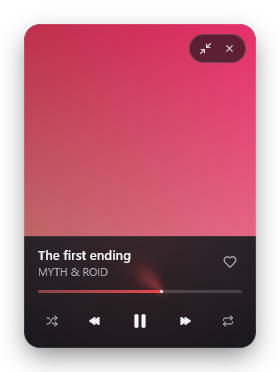
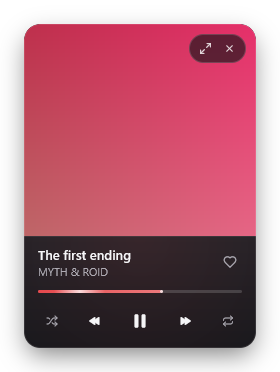
docs: showcase Apple Music Mini Player & 6 synced progress bar effects in README

Changed region(s): [[0.1429, 0.7097, 0.6, 0.7984], [0.7143, 0.1183, 0.7429, 0.1478]]

diff --git a/README.md b/README.md
@@ -8,7 +8,7 @@
 
 <p align="center">
   基于 <b>Go + MyGo</b> 打造的原生 Spotify 桌面客户端与个人音乐云盘播放器（源于 <a href="https://github.com/margbug01/MySpotify">MySpotify</a>）<br>
-  支持 <b>6 大网盘音乐云盘 · 双语逐字动效歌词 · 可拖动灵动岛 · 液态玻璃双形态迷你播放器 · 流光背景 · Windows &amp; macOS 双端开箱即用</b>
+  支持 <b>6 大网盘音乐云盘 · 双语逐字动效歌词 · 可拖动灵动岛 · Apple Music 风格迷你播放器 · 6 种动效进度条 · 流光背景 · Windows &amp; macOS 双端开箱即用</b>
 </p>
 
 <p align="center">
@@ -30,7 +30,8 @@
 - **✨ 流光背景 & 液态玻璃**：Apple Music 风格 GPU 流体网格背景（Flow）与 iOS 风格液态玻璃（Liquid Glass）质感，支持强度滑块连续调节。
 - **🎤 逐字双语动效歌词**：纯 Go 原生多源歌词引擎（网易云 + QQ 音乐 QRC 解密 + LRCLIB），原句与译文同步逐字弹跳/扫光，支持间奏保留上一句与呼吸倒计时点。
 - **🏝 跨屏灵动岛 & 点击穿透桌面歌词**：自由拖动跨显示器、贴顶/悬浮胶囊自动切换、锁定点击穿透后移入/轻点即可浮出「解锁」按钮。
-- **🎛 Apple Music 风格迷你播放器（双形态 + 同步深浅外观）**：支持 **紧凑长条**（平时极简显示歌名与烟雾进度条，悬停原地切换播控）与 **分体封面卡片**（上图完整展示封面且全区可拖动、下文独立控栏含红心喜欢与播控），主窗口右上角标题栏一键从大窗切入迷你模式、小窗 `⤢` 一键返回主窗口，自动同步应用浅色/黑夜外观。
+- **🎛 Apple Music 风格迷你播放器（双形态 + 同步深浅外观）**：支持 **紧凑长条**（平时极简显示歌名与动效进度条，悬停原地切换播控）与 **分体封面卡片**（上图完整展示圆角封面且全区可拖动、下文独立控栏含红心喜欢与播控），窗口右上角原生风格按钮一键从大窗直切迷你模式、小窗 `⤢` 一键返回主窗口，自动同步应用浅色/黑夜外观。
+- **🌈 6 种全局同步进度条特效**：内置 **极光扫光（默认）、律动声波、呼吸光珠、星尘光点、彗星烟雾、经典极简** 6 种高颜值进度条样式，点击底栏 ✨「进度条样式」按钮、右键进度条/小窗或在设置中一键切换，主界面底栏、播放页与迷你播放器实时同步，黑白封面也能保持通透鲜亮。
 - **🎵 无边框音符飘落开机动画**：冷启动时在透明桌面上直接飘落矢量音符，无白底成形 Sonora 音符后丝滑渐显主页；支持设置内一键开关并自动遵循系统「减少动态效果」。
 - **🎨 统一歌曲封面与吸顶胶囊搜索**：全站歌单、我喜欢的音乐、最近播放与本地/云盘库统一支持专辑封面（可在设置中一键开关），支持简繁匹配、空格多词筛选、点喜欢/加歌单秒级原地更新与排序一致播放。
 
@@ -121,16 +122,24 @@
 
 ---
 
-## 5. Apple Music 风格迷你播放器（双形态 + 同步黑夜模式）& 音符飘落开机动画
+## 5. Apple Music 风格迷你播放器、6 种动效进度条 & 开机动画
 
-- **主窗口 ↔ 迷你模式一键直切**：点击主窗口右上角窗口栏的 **切换迷你模式** 图标，直接将大窗口收起并切换为悬浮迷你小窗；点击小窗右上角 `⤢` 即可无缝返回主窗口。支持 **紧凑长条**（`360 × 56`，平时极简居中显示歌名、歌手与极细烟雾进度条，悬停原地平滑切出 5 键播控）与 **分体封面卡片**（`232 × 324` 上图下文分体布局，上方完整展示圆角封面且整片封面均可直接拖动，下方独立控栏集成红心喜欢、可拖动进度条与播控键），右键小窗或在设置中随时切换两种形态。
-- **同步深浅外观 + 6 种可切换进度条特效**：自动与 Sonora 主窗口的浅色 / 黑夜模式保持同步；内置 **极光扫光 / 律动声波 / 呼吸光珠 / 星尘光点 / 彗星烟雾 / 经典极简** 共 6 种进度条样式，点击主界面底栏 ✨「进度条样式」按钮、迷你播放器右键菜单或设置页即可实时切换，主界面底栏、播放页与迷你播放器全局同步，并自动记忆桌面拖动位置。
+- **主窗口 ↔ 迷你模式一键直切**：点击主窗口与全屏播放页右上角（Windows 原生对齐最小化/最大化/关闭按钮左侧）的 **切换迷你模式** 图标，直接将大窗口收起并切入悬浮迷你小窗；点击小窗右上角 `⤢` 或封面即可无缝返回主窗口。支持 **紧凑长条**（`360 × 56`，平时居中极简显示歌名、歌手与动效进度条，悬停原地平滑切出 5 键播控）与 **分体封面卡片**（`232 × 324` 上图下文分体布局，上方完整展示圆角封面且整片封面均可直接拖动，下方独立控栏集成红心喜欢、可拖动进度条与播控键），自动同步主窗口浅色 / 黑夜外观并记忆拖动位置。
+- **6 种高颜值进度条特效（全局同步可随时切换）**：点击主界面底栏音量旁的 ✨ **「进度条样式」** 按钮、右键进度条/迷你小窗，或在 **「设置 → 外观 → 进度条样式」** 中自由切换，**主界面底栏、播放页、律动舞台与迷你播放器**实时同步生效（自动适配黑白/暗色封面，绝不发灰脏字）：
+  - **极光扫光（默认）**：柔和双色渐变轨道 + 轻盈白光流光缓缓扫过；
+  - **律动声波**：微缩音轨波形柱，当前进度头附近细柱随音乐实时律动起伏；
+  - **呼吸光珠**：双色细轨 + 末端晶莹光珠随节拍轻柔呼吸并泛出贴边微晕；
+  - **星尘光点**：进度头轻盈散出清透 2px 星尘光点并闪烁消散；
+  - 同时保留 **彗星烟雾** 与 **经典极简** 两种模式。
 - **无边框音符飘落开机动画**：冷启动不弹出突兀大白窗，直接在透明桌面上飘落矢量音符，无白底成形 Sonora 音符后平滑渐显主窗口；可在 **「设置 → 外观 → 开机动画」** 一键开关，且自动遵循系统「减少动态效果」偏好。
 
 <table>
   <tr>
     <td width="58%" align="center"><img src="docs/screenshots/mini-player-bar.png" alt="Apple Music 风格紧凑长条迷你播放器（浅色与黑夜模式）"><br><b>Apple Music 紧凑长条（浅色 / 黑夜模式）</b>：平时极简、悬停原地切播控，自动同步主应用深浅外观。</td>
-    <td width="42%" align="center"><img src="docs/screenshots/mini-player-card.png" alt="Apple Music 风格分体封面卡片迷你播放器（黑夜模式）"><br><b>分体封面卡片（黑夜模式）</b>：上方完整呈现圆角封面并支持直接拖动，下方独立控栏带红心喜欢与烟雾进度条。</td>
+    <td width="42%" align="center"><img src="docs/screenshots/mini-player-card.png" alt="Apple Music 风格分体封面卡片迷你播放器（黑夜模式）"><br><b>分体封面卡片（黑夜模式）</b>：上方完整呈现圆角封面并支持直接拖动，下方独立控栏带红心喜欢与动效进度条。</td>
+  </tr>
+  <tr>
+    <td colspan="2" align="center"><img src="docs/screenshots/progress-styles.png" alt="4 套全新全局同步进度条特效实机渲染：极光扫光、律动声波、呼吸光珠、星尘光点"><br><b>4 套全新全局同步进度条特效（Go 原生实机渲染）</b>：极光扫光 · 律动声波 · 呼吸光珠 · 星尘光点，底栏 ✨ 按钮一键实时切换。</td>
   </tr>
 </table>
 
@@ -139,8 +148,8 @@
 ## 下载与开始使用
 
 1. 前往 **[Sonora Releases](https://github.com/hfx123456/Sonora/releases/latest)** 下载最新版本：
-   - **Windows**：推荐下载一键安装包 `sonora-setup-1.0.12-amd64.exe`（自动创建快捷方式并按需安装 WebView2）；或下载便携版 `Sonora-1.0.12-windows-amd64.zip` 解压即用。
-   - **macOS**：下载通用镜像 `sonora-1.0.12.dmg`（同时支持 Apple Silicon 与 Intel），拖入「应用程序」即可；因未进行 Apple 公证，首次打开请右键「打开」或在「系统设置 → 隐私与安全性」中允许运行。
+   - **Windows**：推荐下载一键安装包 `sonora-setup-1.0.18-amd64.exe`（自动创建快捷方式并按需安装 WebView2）；或下载便携版 `Sonora-1.0.18-windows-amd64.zip` 解压即用。
+   - **macOS**：下载通用镜像 `sonora-1.0.18.dmg`（同时支持 Apple Silicon 与 Intel），拖入「应用程序」即可；因未进行 Apple 公证，首次打开请右键「打开」或在「系统设置 → 隐私与安全性」中允许运行。
 2. 全程纯 Go 原生编译（仅约 20 MB），**无需额外安装 `.NET` 或任何第三方运行库**。
 
 ## 数据隔离与自动更新

diff --git a/README.en.md b/README.en.md
@@ -8,7 +8,7 @@ English | **[简体中文](README.md)**
 
 <p align="center">
   Native Spotify desktop client &amp; personal Cloud Music Disk built with <b>Go + MyGo</b> (based on <a href="https://github.com/margbug01/MySpotify">MySpotify</a>)<br>
-  <b>6 Cloud Drives · Word-by-Word Bilingual Lyrics · Draggable Dynamic Island · Dual-Style Liquid Glass Mini Player · Flow Backdrop · Windows &amp; macOS</b>
+  <b>6 Cloud Drives · Word-by-Word Bilingual Lyrics · Draggable Dynamic Island · Apple Music Mini Player · 6 Synced Progress Effects · Flow Backdrop · Windows &amp; macOS</b>
 </p>
 
 <p align="center">
@@ -91,16 +91,24 @@ Store your personal audio library in your own cloud drive and stream seamlessly 
 
 ---
 
-## 5. Apple Music-Style Mini Player (Light & Dark Modes) & Borderless Launch Animation
+## 5. Apple Music-Style Mini Player, 6 Synced Progress Effects & Launch Animation
 
-- **Compact Bar ↔ Split Cover Card**: Toggle the floating desktop Mini Player anytime from the bottom-right player bar button or **Settings → Mini Player**. Switch in one click between the slim **Compact Bar** (`360 × 56`, minimal centered title & comet progress bar at rest, crossfading in-place to full transport controls on hover) and the **Split Cover Card** (`232 × 324`, unobstructed full artwork on top + dedicated control deck below with Like heart, scrubbable progress bar, and transport controls).
-- **Auto-Synced Light & Dark Mode + Comet Smoke Progress**: Automatically mirrors Sonora's Light/Dark appearance without extra toggles. Both layouts feature a draggable comet progress bar with bass-reactive smoke wisps and remember their dragged desktop position.
+- **One-Click Main Window ↔ Mini Mode**: Click the native-styled **Switch to Mini Mode** button in the top-right title bar (aligned seamlessly beside minimize/maximize/close on Windows, and in Now Playing) to hide the main window and enter the floating Mini Player; click `⤢` (or the cover) to jump straight back to the main window. Right-click or use Settings to switch between **Compact Bar** (`360 × 56`, minimal centered title & animated progress at rest, crossfading in-place to full transport controls on hover) and **Split Cover Card** (`232 × 324`, unobstructed rounded artwork you can drag anywhere + dedicated control deck below with Like heart and transport). Automatically syncs with the app's Light/Dark appearance and remembers its desktop position.
+- **6 Synchronized Progress Bar Effects**: Click the ✨ **Progress Style** button in the bottom player bar, right-click the progress bar or Mini Player, or open **Settings → Appearance → Progress Style** to switch live across the **main player bar, Now Playing, Stage, and Mini Player** (with vibrant fallback palettes so monochrome covers never turn muddy grey):
+  - **Shimmer Aurora** (default): Smooth dual-tone gradient rail with a soft drifting light sweep;
+  - **Mini Waveform**: Micro equalizer waveform bars whose playhead bars bounce live with the music;
+  - **Liquid Pulse Bead**: Dual-tone rail with a luminous breathing crystal bead hugging the playhead;
+  - **Stardust Sparkles**: Crisp 2px sparkling stardust particles drifting cleanly above the playhead;
+  - Plus **Comet Smoke** and **Classic Minimal**.
 - **Borderless Falling-Notes Launch Animation**: Cold launches float vector musical notes directly over the desktop before assembling the borderless Sonora emblem and smoothly fading in the main window (toggleable in **Settings → Appearance → Startup Animation**, and automatically skipped when system Reduce Motion is enabled).
 
 <table>
   <tr>
-    <td width="58%" align="center"><img src="docs/screenshots/mini-player-bar.png" alt="Liquid Glass horizontal bar mini player with comet smoke progress"><br><b>Classic Horizontal Bar</b>: Seamless Liquid Glass over blurred cover art with seekable comet smoke progress.</td>
-    <td width="42%" align="center"><img src="docs/screenshots/mini-player-card.png" alt="Square artwork cover card mini player with floating Liquid Glass controls"><br><b>Square Cover Card</b>: Pure album art at rest with a frosted Liquid Glass control capsule on hover.</td>
+    <td width="58%" align="center"><img src="docs/screenshots/mini-player-bar.png" alt="Apple Music-style Compact Bar Mini Player in Light and Dark mode"><br><b>Apple Music Compact Bar (Light / Dark)</b>: Minimal at rest, in-place controls on hover, auto-synced with app appearance.</td>
+    <td width="42%" align="center"><img src="docs/screenshots/mini-player-card.png" alt="Apple Music-style Split Cover Card Mini Player in Dark mode"><br><b>Split Cover Card (Dark Mode)</b>: Unobstructed draggable rounded artwork on top with dedicated control deck below.</td>
+  </tr>
+  <tr>
+    <td colspan="2" align="center"><img src="docs/screenshots/progress-styles.png" alt="4 new synchronized progress bar effects rendered by Sonora: Shimmer Aurora, Mini Waveform, Liquid Pulse Bead, Stardust Sparkles"><br><b>4 New Synced Progress Bar Effects (Native Go Renders)</b>: Shimmer Aurora · Mini Waveform · Liquid Pulse Bead · Stardust Sparkles.</td>
   </tr>
 </table>
 
@@ -109,8 +117,8 @@ Store your personal audio library in your own cloud drive and stream seamlessly 
 ## Install, Isolation & Build
 
 1. Download from **[Sonora Releases](https://github.com/hfx123456/Sonora/releases/latest)**:
-   - **Windows**: Run `sonora-setup-1.0.12-amd64.exe` for one-click install (handles shortcuts & WebView2), or extract `Sonora-1.0.12-windows-amd64.zip`.
-   - **macOS**: Download `sonora-1.0.12.dmg` (Apple Silicon & Intel) and drag Sonora to Applications (for the first launch of an unnotarized build, right-click → Open or allow it in Privacy & Security).
+   - **Windows**: Run `sonora-setup-1.0.18-amd64.exe` for one-click install (handles shortcuts & WebView2), or extract `Sonora-1.0.18-windows-amd64.zip`.
+   - **macOS**: Download `sonora-1.0.18.dmg` (Apple Silicon & Intel) and drag Sonora to Applications (for the first launch of an unnotarized build, right-click → Open or allow it in Privacy & Security).
    Pure Go native binary (~20 MB) with built-in multi-source lyrics—no `.NET` runtime or extra setup needed.
 2. **Isolated from upstream MySpotify**: Uses its own single-instance lock, icon, identifier (`dev.hfx123456.sonora`), and directories (`%APPDATA%\Sonora` / `%LOCALAPPDATA%\Sonora`), migrating existing settings on first launch without altering the legacy folder.
 
